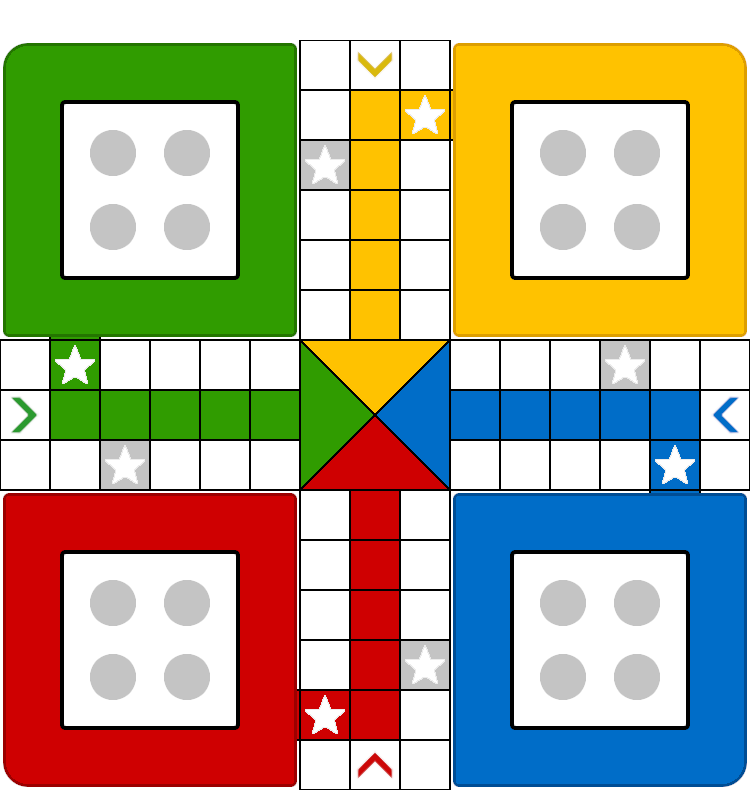
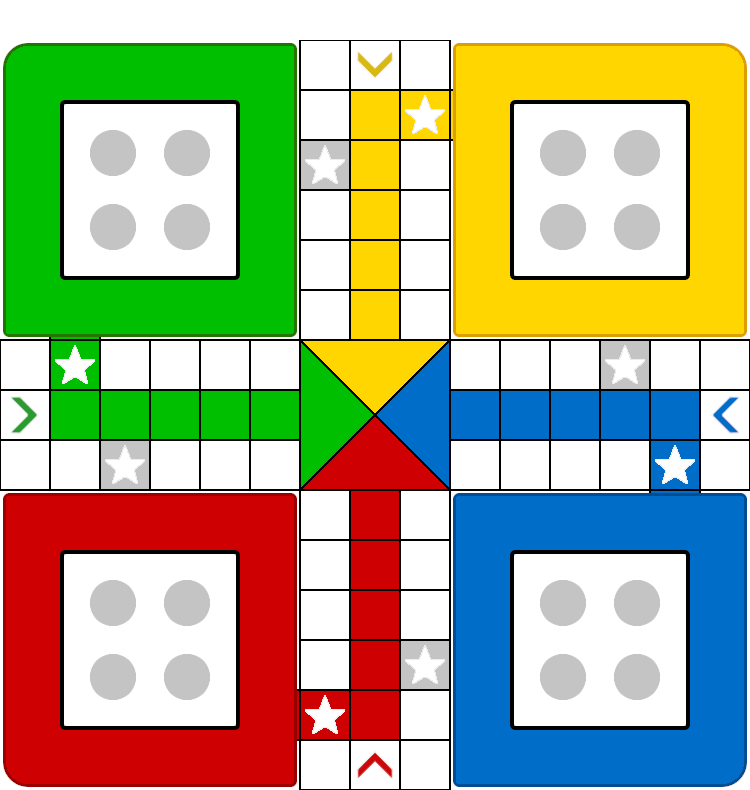
2.0.3 Added Timer

Changed region(s): [[0.0, 0.0608, 0.4907, 0.6076]]

diff --git a/src/GFX/Assets.java b/src/GFX/Assets.java
@@ -4,13 +4,13 @@ import java.awt.image.BufferedImage;
 
 public class Assets {
 
-
     private static final int P_WIDTH=41,P_HEIGHT=78,
             R_WIDTH=75,R_HEIGHT =75;
 
     public static BufferedImage sword,cloak_b,cloak_f;
     public static BufferedImage progressbar_b,progressbar_f;
     public static BufferedImage map;
+    public static BufferedImage timerFrame;
     public static BufferedImage[] game_button =new BufferedImage[2],
                                   settings_button =new BufferedImage[2],
                                   rollimg =new BufferedImage[6],
@@ -28,8 +28,6 @@ public class Assets {
         cloak_b=ImageLoader.loadImage("graphics/Counters/Cloak_Back.png");
         cloak_f=ImageLoader.loadImage("graphics/Counters/Cloak_Front.png");
 
-        //ikona gry
-
         //progressbar
         progressbar_b=ImageLoader.loadImage("graphics/ProgressBar/Bar_Back.png");
         progressbar_f=ImageLoader.loadImage("graphics/ProgressBar/Bar_Front.png");
@@ -40,7 +38,6 @@ public class Assets {
         settings_button[0]=ImageLoader.loadImage("graphics/Menu/settings.png");
         settings_button[1]=ImageLoader.loadImage("graphics/Menu/settings_onhover.png");
 
-
         //kostka do gry
         rollimg[0]=roll.crop(0,0,R_WIDTH,R_HEIGHT);
         rollimg[1]=roll.crop(R_WIDTH,0,R_WIDTH,R_HEIGHT);
@@ -48,13 +45,13 @@ public class Assets {
         rollimg[3]=roll.crop(0,R_HEIGHT,R_WIDTH,R_HEIGHT);
         rollimg[4]=roll.crop(R_WIDTH,R_HEIGHT,R_WIDTH,R_HEIGHT);
         rollimg[5]=roll.crop(R_WIDTH*2,R_HEIGHT,R_WIDTH,R_HEIGHT);
+        timerFrame=ImageLoader.loadImage("graphics/Dice/Timer.png");
 
         //kolory pionkow
         counter[0]=player.crop(0,0,P_WIDTH,P_HEIGHT);
         counter[1]=player.crop(P_WIDTH,0,P_WIDTH,P_HEIGHT);
         counter[2]=player.crop(0,P_HEIGHT,P_WIDTH,P_HEIGHT);
         counter[3]=player.crop(P_WIDTH,P_HEIGHT,P_WIDTH,P_HEIGHT);
-
     }
 
 }

diff --git a/src/states/GameState.java b/src/states/GameState.java
@@ -7,6 +7,7 @@ import Entities.Dice;
 import Entities.Players.Player;
 import Entities.Players.Person;
 import Entities.Tile;
+import Entities.Timer;
 import GFX.Assets;
 import ludogame.Handler;
 
@@ -17,6 +18,7 @@ public class GameState extends State{
     Player[] player=new Player[4];
     Board board;
     Dice dice;
+    Timer timer;
 
     public static final Color[] color=new Color[4];
 
@@ -40,6 +42,7 @@ public class GameState extends State{
         //counter=new Counter[4][4];
         board=new Board(handler,0,0,750,850);   //złe liczby-zmienic
         dice=new Dice(handler,765,300);
+        timer=new Timer(handler,765,300);
 
         turnof=(int)(Math.random()*4);
         System.out.println("MOVING: "+turnof);
@@ -107,10 +110,10 @@ public class GameState extends State{
     }
 
     private void setColors(){
-                color[0]=new Color(255,194,0);
+                color[0]=new Color(255,214,0);
                 color[1]=new Color(0,109,200);
                 color[2]=new Color(201,0,1);
-                color[3]=new Color(48,156,0);
+                color[3]=new Color(0,190,0);
     }
 
     public Player getPlayer(int i){
@@ -141,8 +144,11 @@ public class GameState extends State{
 
     @Override
     public void tick() {
-        if(!dice.isRolled())
-        dice.tick();
+        if(!dice.isRolled()) {
+            dice.tick();
+            timer.tick();
+        }
+
 
         if(dice.isRolled())
         player[turnof].tick();
@@ -150,7 +156,9 @@ public class GameState extends State{
 
     @Override
     public void render(Graphics g) {
+        timer.render(g);
         dice.render(g);
+
         board.render(g);
 
         player[0].render(g);
@@ -174,6 +182,10 @@ public class GameState extends State{
 
     public Dice getDice(){
         return this.dice;
+    }
+
+    public Timer getTimer(){
+        return this.timer;
     }
 
 }

diff --git a/src/Entities/Timer.java b/src/Entities/Timer.java
@@ -1,0 +1,48 @@
+package Entities;
+
+import GFX.Assets;
+import ludogame.Game;
+import ludogame.Handler;
+import states.GameState;
+
+import java.awt.*;
+
+public class Timer extends Entity{
+
+    private int time=10*Game.FPS,
+            currentTime=0;
+    private int TICK= 1;
+    private static int TIMER_WIDTH=87,TIMER_HEIGHT=87;
+
+
+    public Timer(Handler handler, float x, float y) {
+        super(handler, x-6, y-6, TIMER_WIDTH,TIMER_HEIGHT);
+    }
+
+    public void setcurrentTime(){
+        if(handler.getDice().getTickCopunt()<0)
+        this.currentTime+=TICK;
+
+        if(currentTime==time){
+            handler.getDice().setTickcount();
+            currentTime=0;
+        }
+    }
+
+
+    @Override
+    public void tick() {
+        setcurrentTime();
+    }
+
+    @Override
+    public void render(Graphics g) {
+        g.setColor(GameState.color[handler.getGameState().getTurnof()]);
+        g.fillArc((int)(x-8),(int)(y-8),103,103,90,-(currentTime*360/this.time));
+        g.drawImage(Assets.timerFrame,(int)x-8,(int)y-8,null);
+    }
+
+    public void resetTimer(){
+        this.currentTime=0;
+    }
+}

diff --git a/src/Entities/Dice.java b/src/Entities/Dice.java
@@ -73,6 +73,7 @@ public class Dice extends Entity {
             }
             else if(handler.getGameState().getPlayer(handler.getGameState().getTurnof()).isIsinbase()&&handler.getGameState().getRoll()!=6){
                 handler.getGameState().setTurnof();
+                handler.getGameState().getTimer().resetTimer();
                 setRolled(false);
             }
             else if(!handler.getGameState().getPlayer(handler.getGameState().getTurnof()).isIsinbase()){
@@ -82,6 +83,14 @@ public class Dice extends Entity {
             System.out.println("MOVING: "+handler.getGameState().getTurnof());
 
         }
+    }
+
+    public int getTickCopunt(){
+        return this.tickcount;
+    }
+
+    public void setTickcount(){
+        this.tickcount=0;
     }
 
     @Override

diff --git a/src/ludogame/Game.java b/src/ludogame/Game.java
@@ -16,6 +16,10 @@ public class Game implements Runnable {
     private boolean running=false;  //odpowiada za wyjscie z gry
     private Thread thread;          //
 
+    //FPS
+    public static int FPS=60;
+
+
     private BufferStrategy bs;      //-info
     private Graphics g;             //grafika
 
@@ -93,8 +97,7 @@ public class Game implements Runnable {
     public void run() {
         init();
 
-        int fps=60;
-        double timePerTick= 1000000000/fps;   //in nanoseconds
+        double timePerTick= 1000000000/FPS;   //in nanoseconds
         double delta=0;
         long now;
         long lastTime=System.nanoTime();
